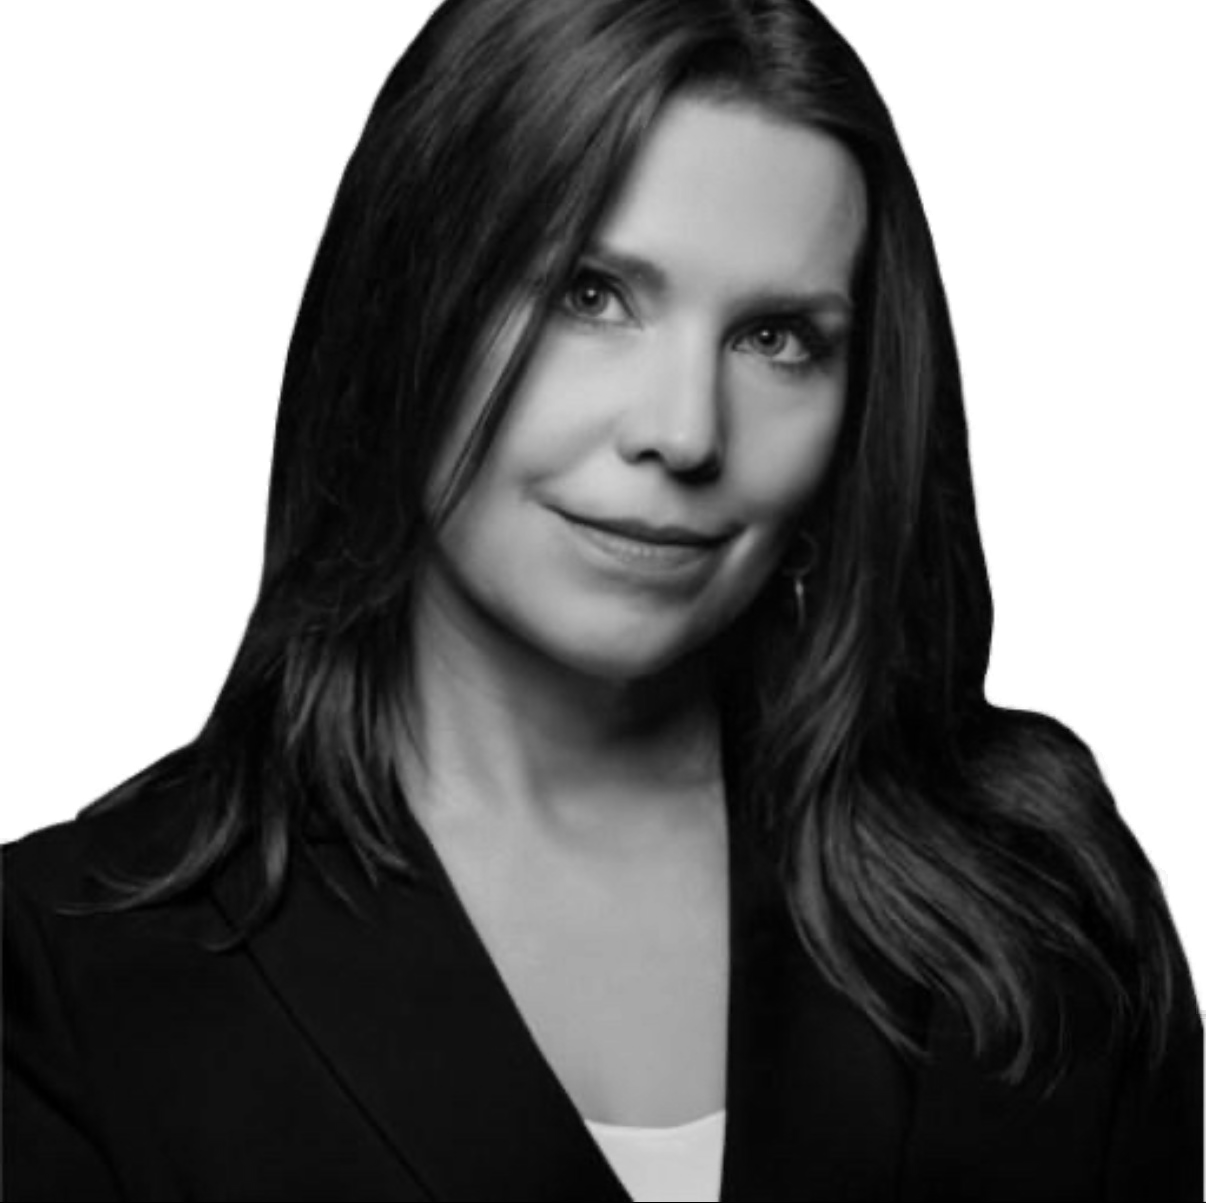
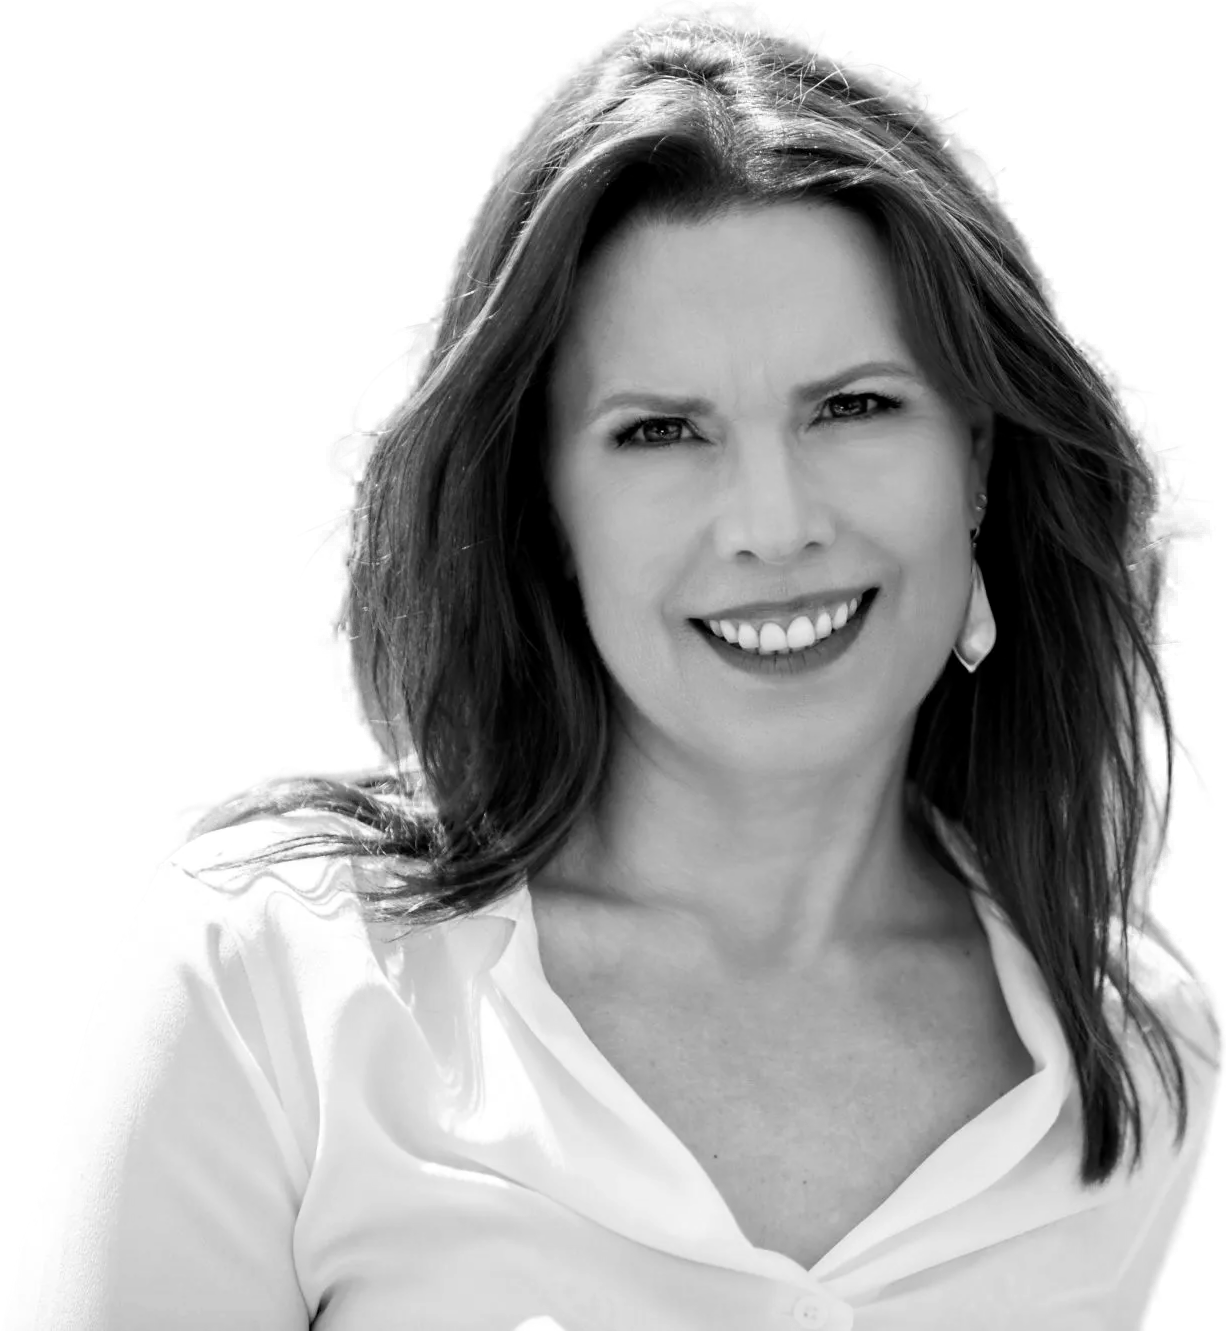
結果論輪播：封面人物換成完整照片並乾淨去背
Claude-Session: https://claude.ai/code/session_01AFjNkU8XspDCm6xvkskaQj

diff --git a/IP經營/輪播_結果論/slides.html b/IP經營/輪播_結果論/slides.html
@@ -20,10 +20,8 @@
   }
   .series::after { content: ""; width: 140px; height: 1px; background: var(--soft); }
   .person {
-    position: absolute; right: 0; bottom: 0; width: 430px; height: 520px;
+    position: absolute; right: 0; bottom: 0; width: 480px; height: 520px;
     background: url(person.png) center top / cover no-repeat;
-    -webkit-mask-image: linear-gradient(to bottom, transparent 0%, #000 14%), linear-gradient(to right, transparent 0%, #000 16%);
-    -webkit-mask-composite: source-in; mask-composite: intersect;
   }
   .who { position: absolute; left: 96px; bottom: 330px; }
   .who::before { content: ""; display: block; width: 72px; height: 1px; background: var(--ink); margin-bottom: 28px; }
